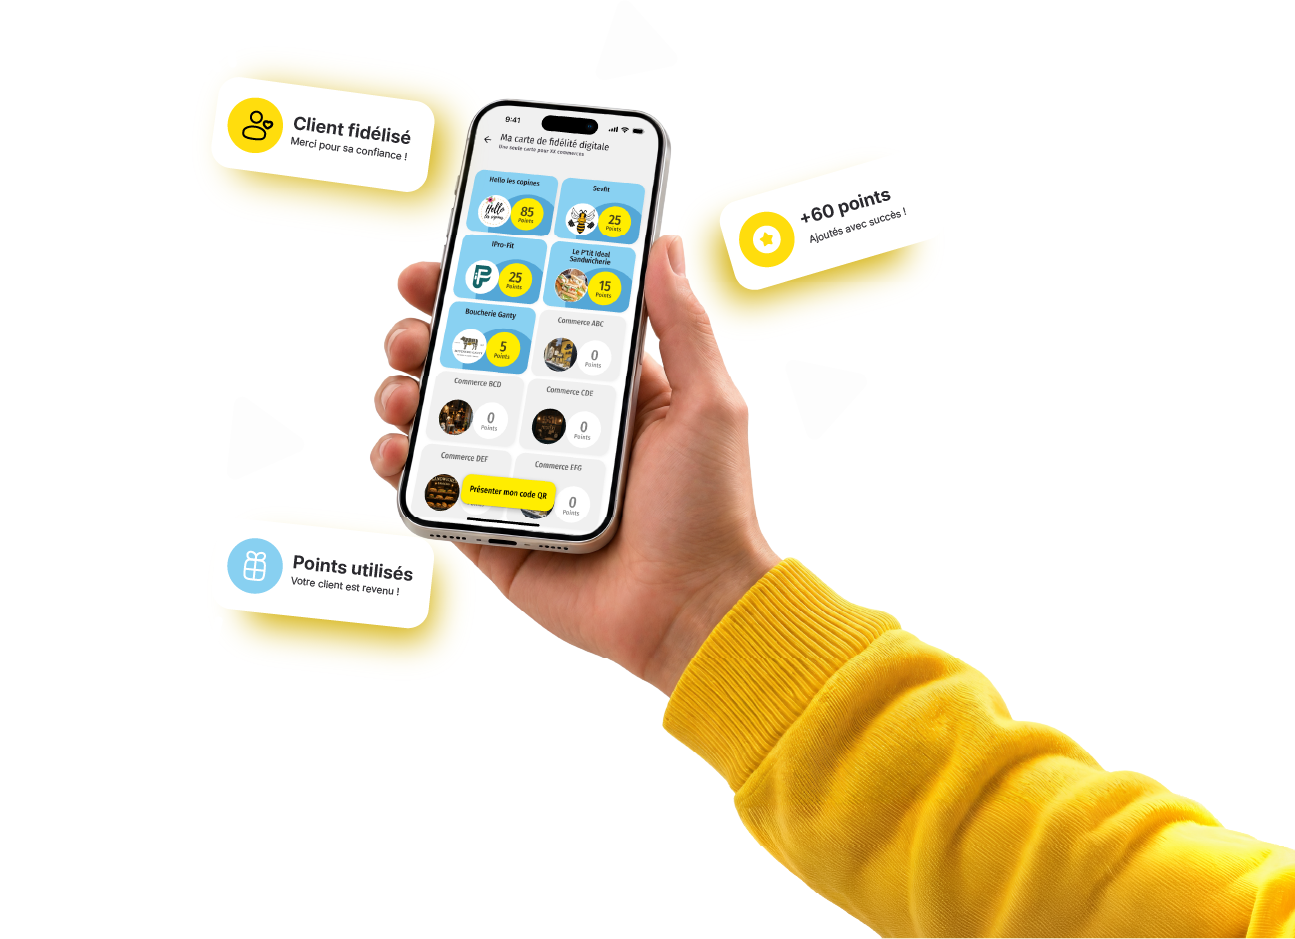
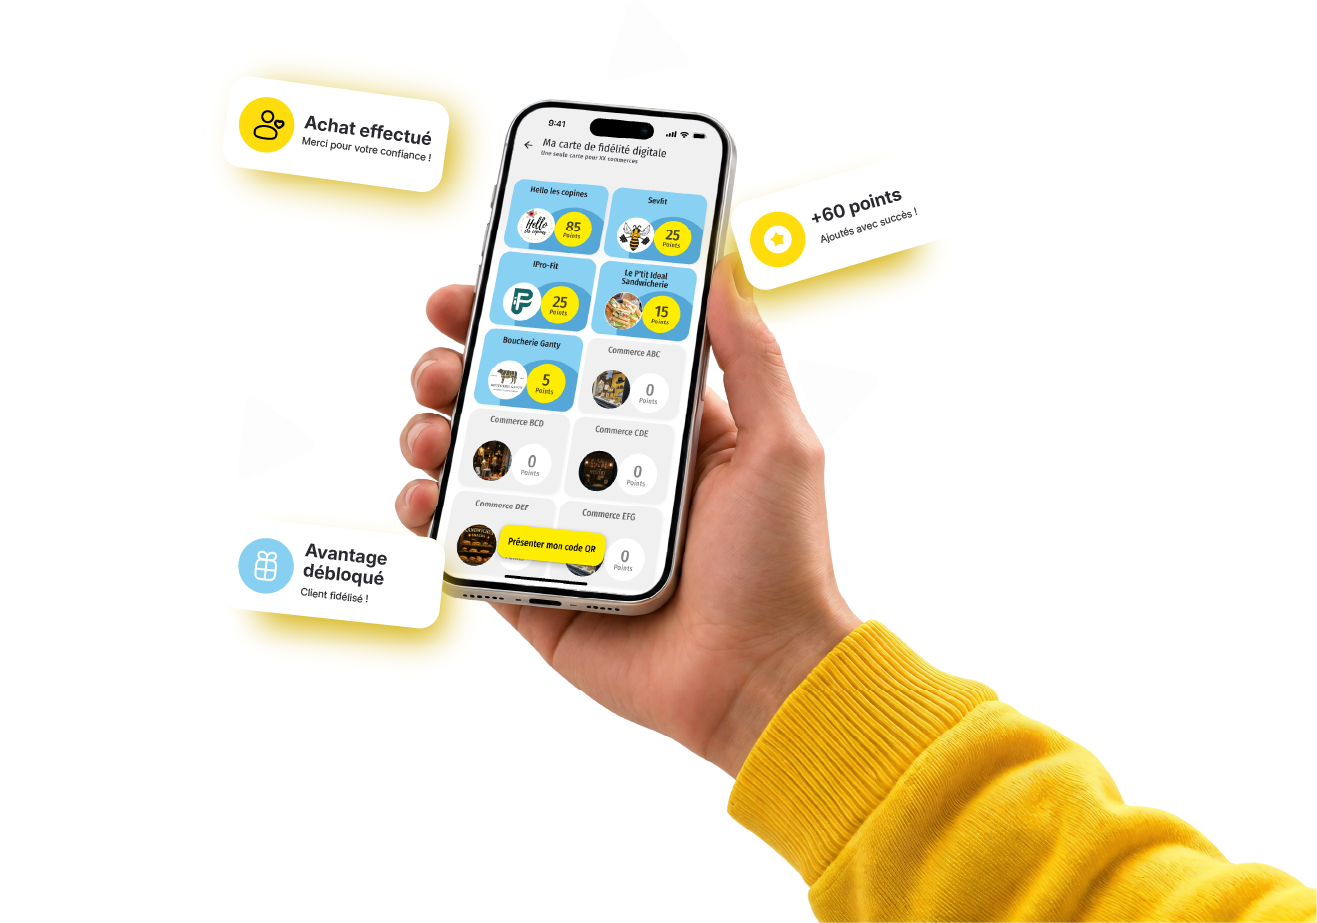
Visuel commerçant : nouvel export (textes modifiés), 1317 × 923
Sylvain a refait le visuel — « Client fidélisé » devient « Achat effectué »
et « Points utilisés » devient « Avantage débloqué » — et l'a relivré sous
le même nom, mais en 1317 × 923 au lieu de 1295 × 939.

- alt de l'<img> aligné sur les nouveaux messages, width/height corrigés.
- Les cinq valeurs de placement sont recalculées. Le calage se fait sur le
  bord gauche de l'ENCRE (x=571), pas sur celui du plan de travail : la marge
  transparente de l'asset passe de 174 à 185 px. D'où 1703 = 386 + 1317.
- Vérifié de 390 à 2560 : le bord gauche de l'encre ne bouge pas de plus
  d'1 px par rapport à l'ancien asset. Marge texte/visuel la plus serrée
  127,8 px contre 136,8 (le nouveau dessin déborde 9 px plus à gauche en
  face du titre).
- Les deux maquettes montrent encore l'ancien visuel : ce placement est une
  continuité raisonnée, pas un relevé. À valider à l'écran.

Changed region(s): [[0.1544, 0.091, 1.0, 1.0]]

diff --git a/commentaires/styles.css b/commentaires/styles.css
@@ -194,12 +194,13 @@
   --com-dl-mt:    clamp(37.68px, 144.657px - 11.8863vw, 98.3px); /* paragraphe → bouton : 98,3 (390) · 47,1 (1440) */
   --com-pb:       0px;                                           /* ⚠ NUL sous 900 depuis la V2 : c'est le VISUEL qui ferme la bande, plus le bouton. 240,8 × --px au-dessus. */
   /* Le visuel commerçant. Largeur et débord droit interpolés 390 → 900, tous deux
-     linéaires en vw ; ils rejoignent à 900 les valeurs de l'homothétie (1295 × 0,80
-     = 1036 et 252 × 0,80 = 201,6), donc le visuel ne change pas de TAILLE au
+     linéaires en vw ; ils rejoignent à 900 les valeurs de l'homothétie (1317 × 0,80
+     = 1053,6 et 263 × 0,80 = 210,4), donc le visuel ne change pas de TAILLE au
      breakpoint — seule sa POSITION saute, avec la mise en page. */
-  --com-visuel-w:     min(228.12px + 89.765vw, 1036px);          /* 578,2 (390) · 1036 (900) — relevé maquette mobile : 1295 × 0,4465 */
-  --com-visuel-h:     calc(var(--com-visuel-w) * 939 / 1295);    /* le ratio de l'asset, une seule source */
-  --com-visuel-bleed: min(71.365px + 14.4706vw, 201.6px);        /* débord à DROITE : 127,8 (390) · 201,6 (900) */
+  --com-visuel-w:     min(232.023px + 91.2863vw, 1053.6px);      /* 588,0 (390) · 1053,6 (900) — 1317 × 0,4465 puis × 0,80 */
+  --com-visuel-h:     calc(var(--com-visuel-w) * 923 / 1317);    /* le ratio de l'asset, une seule source */
+  --com-visuel-bleed: min(73.335px + 15.2294vw, 210.4px);        /* débord à DROITE : 132,73 (390) · 210,4 (900) — calé pour que
+                                                                    le bord gauche de l'ENCRE ne bouge pas, cf. le bloc ≥900 */
   --com-visuel-mt:    52.3px;                                    /* paragraphe → visuel. CONSTANT de 390 à 900 (règle des écarts d'empilement mobile) */
   --com-dl-bas:       calc(var(--com-visuel-h) * 0.076079);      /* bas du visuel → bas du bouton : 31,9 à 390. Exprimé en part de la hauteur pour suivre l'image. */
 
@@ -1390,20 +1391,26 @@ button {
      directs du .container. L'image, en absolu, se cale alors sur .commercants. */
   .commercants__visuel { display: contents; }
 
-  /* Homothétie pure : à 1440 on retombe sur le relevé (x=397, y=67,8, 1295 × 939).
+  /* Homothétie pure. ⚠ Le calage se fait sur le bord gauche de l'ENCRE, pas sur
+     celui du plan de travail : l'asset a une marge transparente à gauche (174 px
+     dans la version du 07/09, 185 dans celle du 08/09) et c'est l'encre que la
+     maquette positionne, à x=571. D'où 1703 = 386 + 1317, et non 397 + 1317.
+     À 1440 : plan de travail à x=386, encre à 571, y=67,8, 1317 × 923.
      ⚠ Le `min(0px, …)` est le SEUL écart, et il sert à deux choses opposées :
      · sous 1152, `--px` est bloqué à 0,80 alors que la fenêtre continue de rétrécir ;
-       l'homothétie garde donc l'image à 317,6 du bord gauche au lieu de la laisser
+       l'homothétie garde donc l'encre à 456,8 du bord gauche au lieu de la laisser
        remonter sur la colonne de texte. Sans ça le paragraphe tombait SUR le
-       téléphone de 900 à ~997 (mesuré). Marge la plus serrée aujourd'hui : 136,8 px.
-     · au-delà de 1692, l'homothétie figée laisserait l'image se DÉCOLLER du bord
+       téléphone de 900 à ~997 (mesuré). Marge la plus serrée : 127,8 px (le titre),
+       contre 136,8 avec l'asset du 07/09 — le nouveau dessin déborde 9 px plus à
+       gauche en face du titre, mais son encre commence au même x=571.
+     · au-delà de 1703, l'homothétie figée laisserait l'image se DÉCOLLER du bord
        droit — on verrait une manche coupée flottant dans du jaune. Le `min` la
        plaque alors au bord de l'écran (débord nul mais bord franc).
-     Entre 1152 et 1692, les deux expressions sont égales : aucune cassure. */
+     Entre 1152 et 1703, les deux expressions sont égales : aucune cassure. */
   .commercants__visuel > img {
     top: calc(67.8 * var(--px));
-    right: min(0px, calc(100vw - 1692 * var(--px)));
-    width: calc(1295 * var(--px));
+    right: min(0px, calc(100vw - 1703 * var(--px)));
+    width: calc(1317 * var(--px));
   }
 
   .commercants__dl {

diff --git a/index.html b/index.html
@@ -275,8 +275,8 @@
         <p class="lead commercants__texte apparait">Commerçant fleurusien ou entreprise locale ? Devenez partenaire de Move in Fleurus et donnez à vos clients une bonne raison de revenir.</p>
 
         <div class="commercants__visuel">
-          <img src="assets/images/visuel-commercant.webp" width="1295" height="939" loading="lazy" decoding="async"
-            alt="L'appli commerçant sur un téléphone, ouverte sur la carte de fidélité digitale, entourée des messages « Client fidélisé », « +60 points » et « Points utilisés ».">
+          <img src="assets/images/visuel-commercant.webp" width="1317" height="923" loading="lazy" decoding="async"
+            alt="L'appli commerçant sur un téléphone, ouverte sur la carte de fidélité digitale, entourée des messages « Achat effectué », « +60 points » et « Avantage débloqué ».">
 
           <div class="commercants__dl apparait">
             <a class="btn-dl" href="https://fleurus.be/move-in-fleurus/commercant/" target="_blank" rel="noopener">En savoir plus</a>

diff --git a/commentaires/index.html b/commentaires/index.html
@@ -227,8 +227,8 @@
            Au-dessus de 900 l'enveloppe passe en `display: contents` : le bouton redevient
            un bloc du flux normal et l'image se cale sur la section. -->
       <div class="commercants__visuel">
-        <img src="assets/images/visuel-commercant.webp" width="1295" height="939" loading="lazy" decoding="async"
-             alt="L'appli commerçant sur un téléphone, ouverte sur la carte de fidélité digitale, entourée des messages « Client fidélisé », « +60 points » et « Points utilisés ».">
+        <img src="assets/images/visuel-commercant.webp" width="1317" height="923" loading="lazy" decoding="async"
+             alt="L'appli commerçant sur un téléphone, ouverte sur la carte de fidélité digitale, entourée des messages « Achat effectué », « +60 points » et « Avantage débloqué ».">
 
         <div class="commercants__dl apparait">
           <a class="btn-dl" href="https://fleurus.be/move-in-fleurus/commercant/" target="_blank" rel="noopener">En savoir plus</a>

diff --git a/styles.css b/styles.css
@@ -90,9 +90,9 @@
   --com-titre-mt: clamp(49.6px, 45.318px + 1.098vw, 55.2px);
   --com-dl-mt:    clamp(37.68px, 144.657px - 11.8863vw, 98.3px);
   --com-pb:       0px;
-  --com-visuel-w:     min(228.12px + 89.765vw, 1036px);
-  --com-visuel-h:     calc(var(--com-visuel-w) * 939 / 1295);
-  --com-visuel-bleed: min(71.365px + 14.4706vw, 201.6px);
+  --com-visuel-w:     min(232.023px + 91.2863vw, 1053.6px);
+  --com-visuel-h:     calc(var(--com-visuel-w) * 923 / 1317);
+  --com-visuel-bleed: min(73.335px + 15.2294vw, 210.4px);
   --com-visuel-mt:    52.3px;
   --com-dl-bas:       calc(var(--com-visuel-h) * 0.076079);
 
@@ -916,8 +916,8 @@ button {
 
   .commercants__visuel > img {
     top: calc(67.8 * var(--px));
-    right: min(0px, calc(100vw - 1692 * var(--px)));
-    width: calc(1295 * var(--px));
+    right: min(0px, calc(100vw - 1703 * var(--px)));
+    width: calc(1317 * var(--px));
   }
 
   .commercants__dl {

diff --git a/CLAUDE.md b/CLAUDE.md
@@ -434,10 +434,24 @@ Planchers de lisibilité (seule entorse à l'homothétie) : 12 px sur `--fs-nav`
      prenait 6,4 px de plus — la bande finissait à 777 au lieu de 771.
    - ✅ **LA MOITIÉ DROITE N'EST PLUS VIDE** — c'était bien un mockup qui manquait
      (question 11, désormais résolue). L'asset est **`assets/images/visuel-commercant.webp`**,
-     **1295 × 939 avec canal alpha**, 499 Ko. Livré sous le nom `Visuel Commerçant.webp`,
-     **renommé** en kebab-case comme le reste des assets.
+     **1317 × 923 avec canal alpha**, 432 Ko (le 07/09 : 1295 × 939, 487 Ko). Livré sous
+     le nom `Visuel Commerçant.webp`, **renommé** en kebab-case comme le reste des assets.
+     - ⚠ **RÉEXPORT DU 08/09/2026, MÊME NOM DE FICHIER, DIMENSIONS DIFFÉRENTES.** Sylvain
+       a refait le visuel parce que **les textes à l'intérieur ont changé** : « Client
+       fidélisé » → **« Achat effectué »** et « Points utilisés » → **« Avantage débloqué »**
+       (« +60 points » est inchangé). L'`alt` de l'`<img>` a été aligné dans la foulée — il
+       cite ces trois messages.
+       ⚠ **Le nom de fichier étant le même, rien ne signale le changement.** Le seul
+       indice est le `git status` sur un binaire. Toujours vérifier les **dimensions** d'un
+       asset relivré sous le même nom : ici elles ont bougé de 1295 × 939 à 1317 × 923,
+       et ces deux nombres sont écrits en dur dans le HTML **et** dans trois valeurs du CSS.
+       ⚠ **Les deux maquettes montrent encore l'ANCIEN visuel** — elles ne peuvent donc
+       plus servir à recaler celui-ci. Le nouveau placement est une **continuité raisonnée**
+       (cf. « bord gauche de l'encre » ci-dessous), pas un relevé.
      - ⚠ **Son encre touche déjà ses bords haut, bas et droit** ; la seule marge
-       transparente est à **gauche (174 px)**. L'image est donc FAITE pour être rognée
+       transparente est à **gauche (185 px depuis le 08/09/2026, 174 avant)**. C'est
+       vérifié à chaque livraison en cherchant la bounding box des pixels non
+       transparents. L'image est donc FAITE pour être rognée
        par les bords — ne jamais la recadrer sur son contenu, et ne jamais l'afficher
        en entier : le bras coupé se mettrait à flotter dans le jaune.
      - **Placement relevé au pixel, identique méthode sur les deux maquettes** : on cale
@@ -445,7 +459,15 @@ Planchers de lisibilité (seule entorse à l'homothétie) : 12 px sur `--fs-nav`
        vérifie sur cinq autres lignes. ⚠ **La largeur de 6 px à la pointe ne prouve
        RIEN à elle seule** — c'est le plancher de l'antialiasing, elle mesure 6 px aux
        deux échelles. Ce qui tranche, ce sont les longs bras de levier.
-       - **Desktop : ÉCHELLE 1:1**, coin haut-gauche **x=397**, **y=+67,8** sous le haut
+       - ⚠ **C'EST LE BORD GAUCHE DE L'ENCRE QU'ON CALE, PAS CELUI DU PLAN DE TRAVAIL.**
+         La marge transparente est un accident de l'export ; ce que la maquette positionne,
+         c'est le dessin. L'encre commence à **x=571** en desktop, et c'est ce nombre qui a
+         été reconduit au réexport : `1703 = 386 + 1317` (plan de travail à 386) et non
+         `397 + 1317`. Vérifié à 390 · 500 · 700 · 899 · 901 · 1000 · 1152 · 1300 · 1440 :
+         **le bord gauche de l'encre ne bouge pas de plus d'1 px** par rapport à l'ancien
+         asset. Au-delà de 1703 l'image est plaquée à droite, l'encre y tombe donc 11 px
+         plus à gauche qu'avant — 11 px de jaune, sans conséquence.
+       - **Desktop (asset du 07/09) : ÉCHELLE 1:1**, coin haut-gauche **x=397**, **y=+67,8** sous le haut
          de bande. Vérifié par trois repères indépendants : pointe de la flèche gauche
          prédite à x=571,1 / **mesurée 571,1** ; ligne du bas prédite à 1059,1 / mesurée
          1058,6 ; zone haut-droite prédite vide / **vide des deux côtés**. L'image
@@ -487,7 +509,7 @@ Planchers de lisibilité (seule entorse à l'homothétie) : 12 px sur `--fs-nav`
    ⚠ **CONSÉQUENCE : la hauteur de bande SAUTE au breakpoint** — ≈**1129 à 899**,
    **635,9 à 901**. C'est le changement de mise en page, au même titre que le hero
    (−395) ou les piliers (−314), **pas** une cassure de typo : le visuel garde la
-   **même taille** de part et d'autre (1036 de large des deux côtés, soit 1295 × 0,80),
+   **même taille** de part et d'autre (1053,6 de large des deux côtés, soit 1317 × 0,80),
    seule sa **position** saute. Ne pas « corriger » ce saut.
 
    **Tokens** (`--com-visuel-*`), interpolés linéairement en `vw` de 390 à 900 et
@@ -495,27 +517,36 @@ Planchers de lisibilité (seule entorse à l'homothétie) : 12 px sur `--fs-nav`
 
    | Token | 390 | 900 | ≥900 |
    |---|---|---|---|
-   | `--com-visuel-w` | 578,2 | 1036 | `1295 × --px` |
-   | `--com-visuel-bleed` (débord droit) | 127,8 | 201,6 | via le `min()` ci-dessous |
-   | `--com-visuel-h` | 419,3 | 751,2 | — (dérivé : `w × 939 / 1295`) |
+   | `--com-visuel-w` | 588,0 | 1053,6 | `1317 × --px` |
+   | `--com-visuel-bleed` (débord droit) | 132,73 | 210,4 | via le `min()` ci-dessous |
+   | `--com-visuel-h` | 412,1 | 738,4 | — (dérivé : `w × 923 / 1317`) |
    | `--com-visuel-mt` (paragraphe → visuel) | 52,3 | 52,3 | — |
-   | `--com-dl-bas` (bas du visuel → bas du bouton) | 31,9 | — | — |
+   | `--com-dl-bas` (bas du visuel → bas du bouton) | 31,35 | — | — |
+
+   ⚠ **Ces cinq valeurs ont TOUTES bougé au réexport du 08/09/2026** (elles valaient
+   578,2 / 1036 · 127,8 / 201,6 · 419,3 / 751,2 · 52,3 · 31,9). Le `bleed` n'est pas une
+   simple règle de trois : il est recalculé pour que le **bord gauche de l'encre** tombe
+   au même endroit qu'avant, la marge transparente de l'asset ayant changé (174 → 185).
 
    `--com-visuel-h` et `--com-dl-bas` sont **dérivés de la largeur**, pas relevés à part :
    une seule source, et le bouton reste au même endroit de l'image quelle que soit sa taille.
 
-   ⚠ **La position horizontale en desktop est `right: min(0px, calc(100vw - 1692 * var(--px)))`,
+   ⚠ **La position horizontale en desktop est `right: min(0px, calc(100vw - 1703 * var(--px)))`,
    et ce `min()` n'est pas une coquetterie — il règle DEUX problèmes opposés :**
    - **Sous 1152**, `--px` est bloqué à 0,80 alors que la fenêtre continue de rétrécir.
      Une image ancrée au bord droit remonte alors sur la colonne de texte : **le
      paragraphe tombait SUR le téléphone de 900 à ~997** (mesuré, chevauchement jusqu'à
-     95,8 px). L'homothétie la maintient à 317,6 du bord gauche. Marge la plus serrée
-     aujourd'hui : **136,8 px** (le titre), vérifiée en testant l'encre réelle du WebP
+     95,8 px). L'homothétie maintient l'encre à 456,4 du bord gauche. Marge la plus serrée
+     aujourd'hui : **127,8 px** (le titre), vérifiée en testant l'encre réelle du WebP
      contre les boîtes de texte, à 901 · 1000 · 1152 · 1300 · 1440 · 1920.
-   - **Au-delà de 1692**, l'homothétie figée laisserait l'image **se décoller du bord
+     ⚠ Elle valait **136,8** avec l'asset du 07/09 : le nouveau dessin déborde **9 px plus
+     à gauche en face du titre**, alors que son encre commence au même x=571. Comparaison
+     faite profil par profil (min de x de l'encre, ligne par ligne) sur les quatre bandes de
+     texte : eyebrow **0**, titre **−9**, paragraphe **+37**, bouton **0**.
+   - **Au-delà de 1703**, l'homothétie figée laisserait l'image **se décoller du bord
      droit** : on verrait une manche coupée flotter dans du jaune (à 2560 : 308 px de
      jaune après le bras). Le `min()` la plaque au bord de l'écran.
-   - Entre 1152 et 1692 les deux expressions sont **égales** : aucune cassure.
+   - Entre 1152 et 1703 les deux expressions sont **égales** : aucune cassure.
    ⚠ Pour mesurer l'encre du texte, prendre les **nœuds de texte** (Range) et non la
    boîte des éléments : `.lignes > span` est en `display: block`, sa boîte fait toute
    la largeur du conteneur et fait croire à un chevauchement qui n'existe pas.
@@ -1183,8 +1214,10 @@ du HTML comme de la feuille de style.
 
 **Point d'arrêt du 07/09/2026 (soir).** Le **visuel de la section Commerçant** est posé
 d'après les maquettes V2, et vérifié dans le navigateur (pas seulement sur le papier) :
-- **placement exact aux deux bornes** — à 1440 l'image est à `x 397 → 1692`, `top 67,8`,
-  1295 × 939, soit le relevé au pixel ; à 390 elle est à `x −60,4 → 517,8`, 578,2 × 419,2,
+- **placement exact aux deux bornes** — à 1440 l'image est à `x 386 → 1703`, `top 67,8`,
+  1317 × 923 (au 08/09 ; c'était `x 397 → 1692`, 1295 × 939 avec l'asset de la veille, et
+  l'**encre** commence à x=571 dans les deux cas) ; à 390 elle est à `x −65,3 → 522,7`,
+  588,0 × 412,1,
   soit le relevé également ;
 - **bande** : 794,9 à 1440 (maquette 793,4) et 802,6 à 390 (maquette 782,2, l'écart étant
   la 5e ligne de paragraphe du vrai texte) ;
@@ -1193,7 +1226,8 @@ d'après les maquettes V2, et vérifié dans le navigateur (pas seulement sur le
 - les autres sections sont **inchangées** (hero 1114,8 · fidélité 1132 · piliers 210 ·
   footer 240,3 à 1440), et les deux boutons de store répondent toujours.
 
-⚠ Ce qui reste ouvert sur cette section : le **poids** de l'asset (487 Ko, cf. la passe
+⚠ Ce qui reste ouvert sur cette section : le **poids** de l'asset (432 Ko depuis le réexport
+du 08/09, contre 487 la veille, cf. la passe
 finale) et le **saut de hauteur au breakpoint** (≈1129 → 635,9), qui est voulu mais que
 Sylvain n'a pas encore vu.
 
@@ -1253,7 +1287,8 @@ réserve qui n'a pas lieu d'être puisque le header n'est pas sticky et ne recou
 - Piste restante : `photo-commercants.webp` (539 Ko, 4232 × 5948) est deux fois plus grande
   que nécessaire (2560 de large suffirait). Chargement différé, donc moins critique.
 - ⚠ **`assets/images/` est repassé de 816 Ko à 1290 Ko** le 07/09/2026 avec l'arrivée de
-  `visuel-commercant.webp` (**487 Ko**, 1295 × 939 avec alpha). C'est désormais le
+  `visuel-commercant.webp` (**432 Ko depuis le réexport du 08/09/2026**, 1317 × 923 avec
+  alpha ; 487 Ko et 1295 × 939 la veille). C'est désormais le
   **2e fichier le plus lourd du site**, juste derrière la photo de Fidélité. Il est en
   `loading="lazy"` + `decoding="async"` et sa section est loin sous la ligne de flottaison,
   donc il ne pèse pas sur le premier rendu — mais **les deux gros WebP font maintenant
